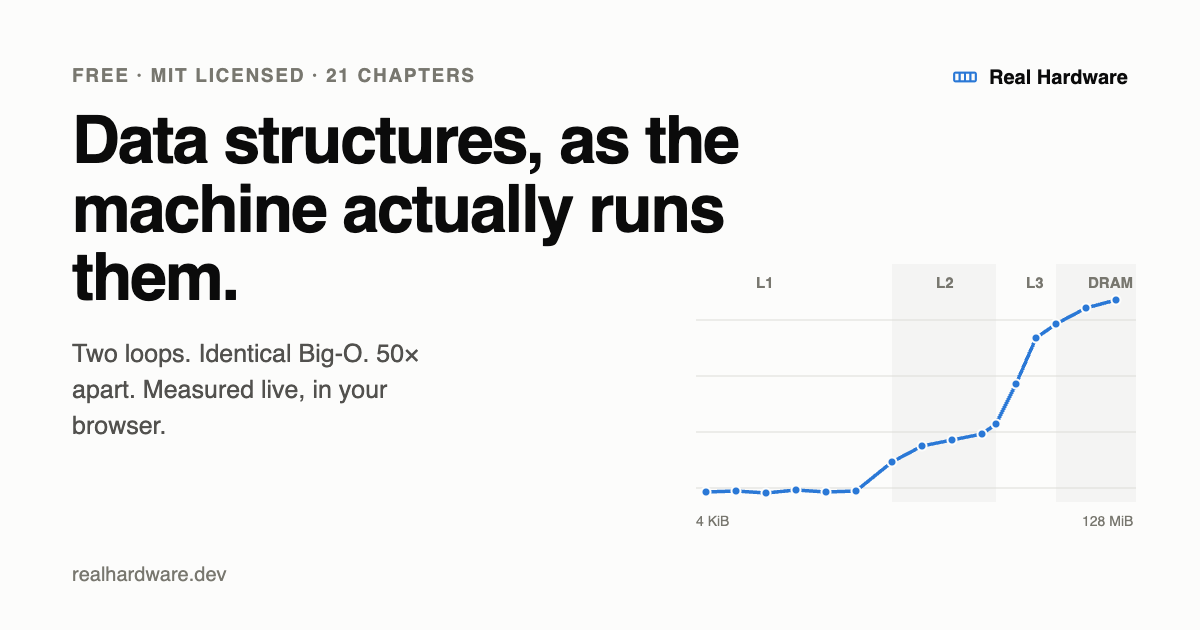
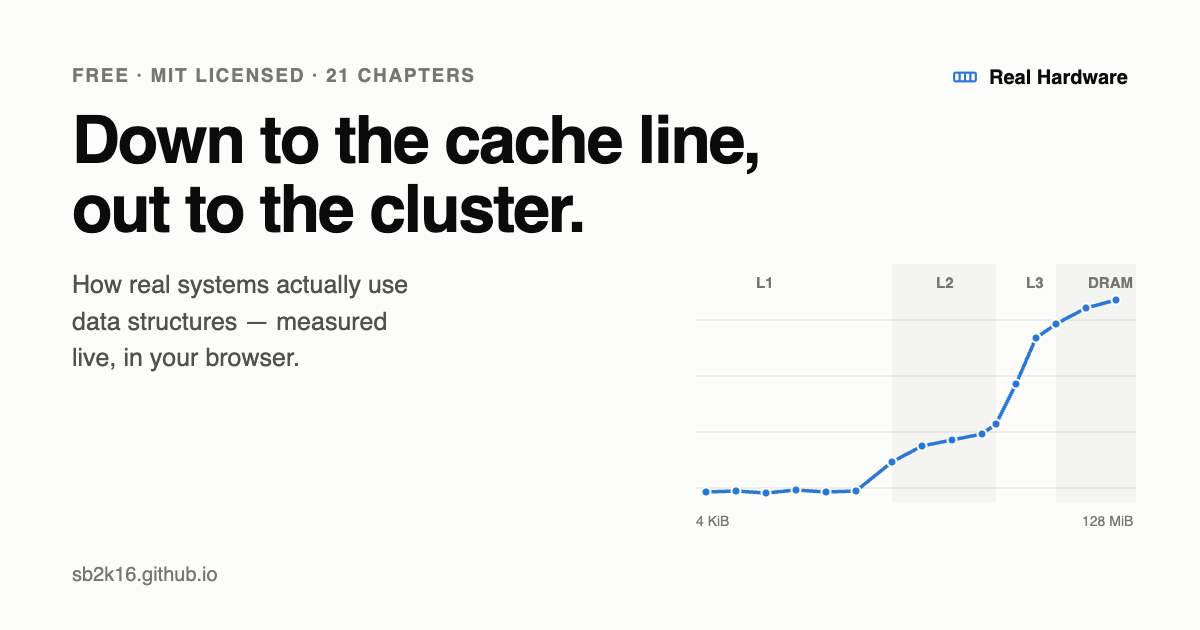
Re-mission the homepage and make arrays the next flagship
Homepage now carries the sharpened positioning from the editorial review:
'down to the cache line and out to the cluster' — the full span from CPU
behavior to distributed systems that no other DSA book covers. Hero copy,
feature cards (cache-line-to-cluster / measured / connected-to-production),
meta description, and the OG social card all updated; OG domain corrected
to sb2k16.github.io.

Arrays (Ch 3) rebuilt as an interactive MDX flagship on the same pattern
as hash tables: narrates why contiguity is the array's superpower (and
its O(n)-middle-insert weakness that motivates the linked list), a live
AoS-vs-SoA benchmark (~2.4x on identical data), an In-production section
(NumPy, columnar DBs, Kafka log, kernel ring buffers), engineering
judgment, and an interview checklist. Comprehensive markdown stays as the
GitHub reference; also removed a 'REVISIT THIS' editing artifact that had
shipped into that chapter.

Changed region(s): [[0.0617, 0.181, 0.6475, 0.6333], [0.0617, 0.9048, 0.185, 0.9349], [0.0617, 0.6635, 0.1542, 0.6937]]

diff --git a/web/src/lib/book.ts b/web/src/lib/book.ts
@@ -46,7 +46,8 @@ export const CHAPTERS: ChapterMeta[] = [
     number: '3',
     title: 'Arrays and Strings',
     part: 'Linear Structures',
-    blurb: 'Contiguous memory, bit manipulation, and the structure every fast program is secretly built on.',
+    blurb: 'The structure the hardware loves: why contiguity makes arrays fast, how layout (AoS vs SoA) decides their speed, and where columnar databases take it. Measured live.',
+    custom: true,
   },
   {
     id: 'concurrency-fundamentals',

diff --git a/chapters/03-basic-data-structures.md b/chapters/03-basic-data-structures.md
@@ -20,9 +20,7 @@
 - [3.6 Common Array Algorithms](#common-array-algorithms)
   - [Linear Search](#linear-search)
   - [Binary Search (for sorted arrays)](#binary-search-for-sorted-arrays)
-  - [REVISIT THIS --> /<begin>](#revisit-this-begin)
   - [Binary Search Pitfalls: When to Use `<=` vs `<`](#binary-search-pitfalls-when-to-use-vs)
-  - [REVISIT THIS --> /<end>](#revisit-this-end)
   - [Array Rotation](#array-rotation)
   - [Finding Maximum Subarray (Kadane's Algorithm)](#finding-maximum-subarray-kadanes-algorithm)
   - [Two Pointers Technique](#two-pointers-technique)
@@ -453,8 +451,6 @@ bool binarySearchSTL(const vector<int>& arr, int target) {
 }
 ```
 
-### REVISIT THIS --> /<begin>
-
 ### Binary Search Pitfalls: When to Use `<=` vs `<`
 
 Binary search is deceptively simple but notoriously error-prone. One of the most common mistakes is choosing the wrong comparison operator in the while loop condition. Understanding when to use `<=` versus `<` is crucial for correctness.
@@ -694,8 +690,6 @@ int upperBound(const vector<int>& arr, int target) {
    - Exclusive bounds → `<`
 
 4. **Test edge cases**: Empty array, single element, target not found, target at boundaries
-
-### REVISIT THIS --> /<end>
 
 #### Practice Problems
 
